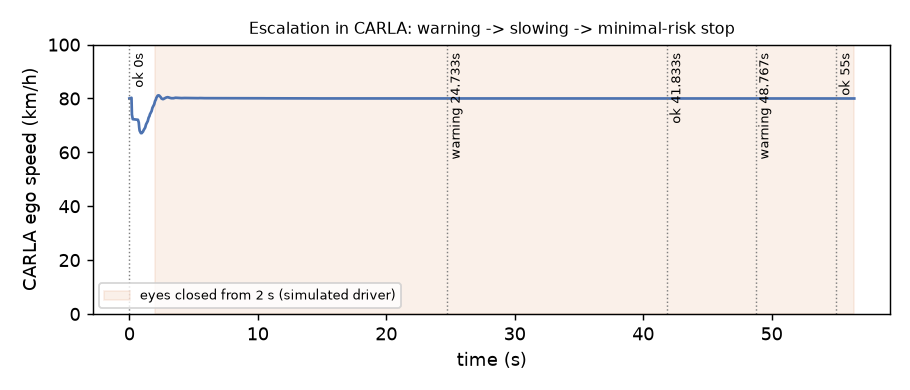
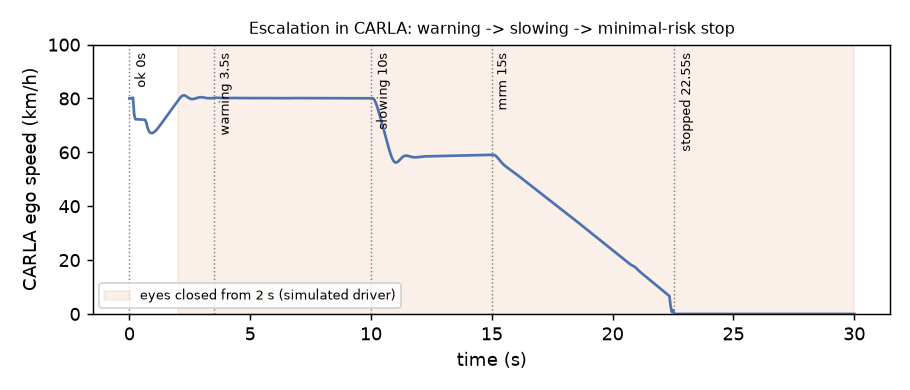
CARLA safe-stop GIF: escalation now ends in lane

diff --git a/scripts/make_results.py b/scripts/make_results.py
@@ -181,6 +181,9 @@ def main():
     sbs = OUT / "videos/live_20261020_220639_carla.mp4"  # take 5 (own face) driving the CARLA ego: scripts/live_demo.py + carla_video.py
     if sbs.exists():
         clip_gif(sbs, RES / "demo_face_to_carla.gif", 22, 34)
+    stop = OUT / "videos/live_20261020_221211_carla.mp4"  # simulated sleeping driver, full escalation to a stop in lane
+    if stop.exists():
+        clip_gif(stop, RES / "demo_carla_safe_stop.gif", 8, 25, fps=4, width=560)
     if (OUT / "fm/ir_eye_probe.csv").exists():
         ir_chart(OUT / "fm/ir_eye_probe.csv", RES / "infrared_eye_state.png")
     live = ROOT / "data/clips/clip05_live.mp4"  # own face, phone camera, voice-guided take, hand-labelled truth (publishable, unlike DMD)

diff --git a/README.md b/README.md
@@ -43,7 +43,8 @@ flowchart LR
 Eyes close → sleep warning → DMS level WARNING in the car. The driver looks back within 8 s, so it never escalates further.</sub></p>
 
 <p align="center">
-  <img src="results/live_escalation.png" width="620" alt="CARLA ego speed during escalation">
+  <img src="results/demo_carla_safe_stop.gif" width="420" alt="CARLA: slowing, minimal-risk manoeuvre, stop in lane">
+  <img src="results/live_escalation.png" width="440" alt="CARLA ego speed during escalation">
 </p>
 <p align="center"><sub>If the driver stays asleep (simulated driver, eyes closed from 2 s): warning 3.5 s, slowing from 10 s,
 safe-stop manoeuvre from 15 s, standstill at 22.5 s.</sub></p>
